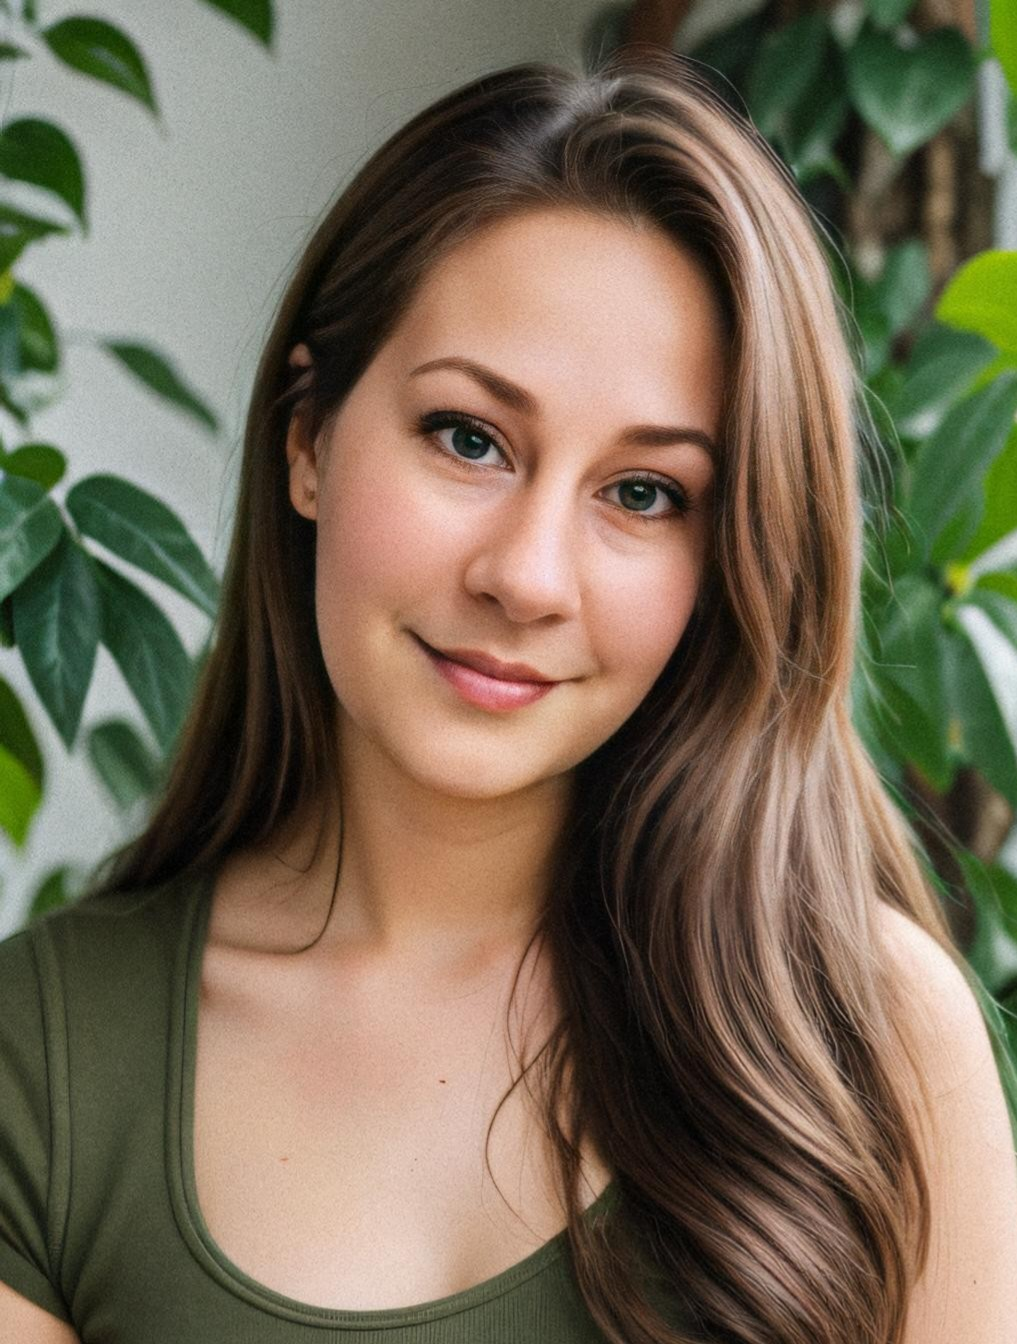
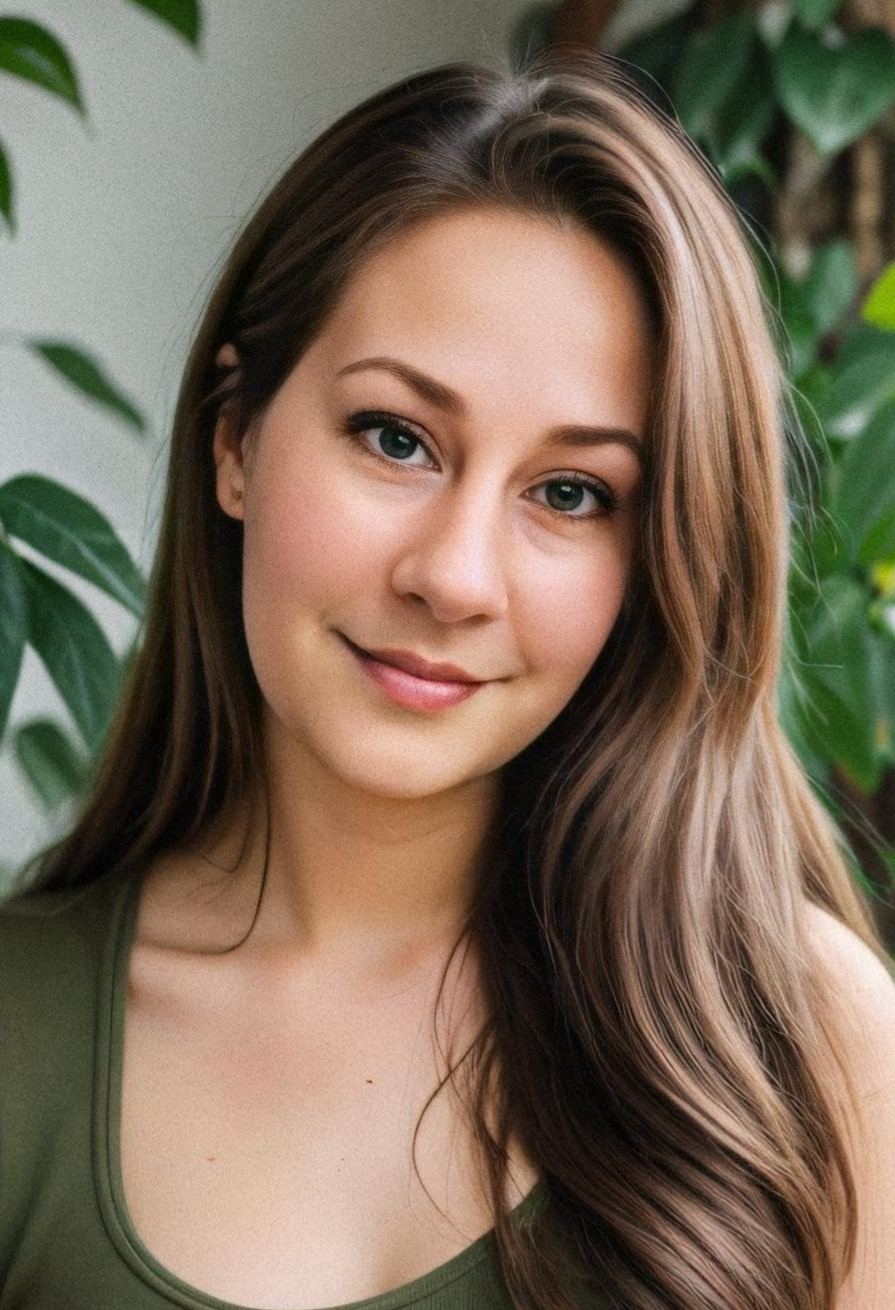
Padding

diff --git a/index.html b/index.html
@@ -46,9 +46,9 @@
          <ul id="nav" class="nav">
             <li class="current"><a class="smoothscroll" href="#home">Home</a></li>
             <li><a class="smoothscroll" href="#whatidobest">What I Do Best</a></li>
+	         <li><a class="smoothscroll" href="#skills">Professional Skills</a></li>   
             <li><a class="smoothscroll" href="#outsidetheoffice">Outside the Office</a></li>
-	         <li><a class="smoothscroll" href="#skills">Professional Skills</a></li>            
-           <li><a class="smoothscroll" href="#contact">Contact</a></li>
+            <li><a class="smoothscroll" href="#contact">Contact</a></li>
          </ul> <!-- end #nav -->
 
       </nav> <!-- end #nav-wrap -->
@@ -120,6 +120,41 @@
       </div>
 
    </section> <!-- What I do Best Section End-->
+
+      <!-- Skills Section
+      ----------------------------------------------- -->
+   <section id="skills">
+      <div class="row skill">
+
+         <div class="three columns header-col">
+            <h1><span>Skills</span></h1>
+         </div>
+
+         <div class="nine columns main-col">
+
+
+				<div class="bars">
+
+				   <ul class="skills">
+                  
+					   <li><span class="bar-expand bi"></span><em>Business Intelligence</em><p>Data Modeling, Power BI, QuickSight, Snowflake, SQL, Metrics and KPIs, Gap Analysis, ETL, API, QA, Requirements Gathering, SOPs</p></li>
+                  <li><span class="bar-expand pm"></span><em>Project Management</em><p>Jira, Confluence, Azure DevOps, SharePoint, Scrum and Kanban, Agile and Waterfall Methedologies, Risk Management, SOPs, PMBOK</p></li>
+                  <li><span class="bar-expand webdevelopment"></span><em>Full Stack Web Development</em><p>JS, CSS, HTML,Github, Node.js, Express.js, MongoDB, REST API, GraphQl, Docker, PowerShell</p></li>
+                 	<li><span class="bar-expand marketresearch"></span><em>Qualitative Market Research</em><p>Live-Market Product Trials for New Features and Products, Bug Reporting and Escalation, Customer Satisfaction Analysis and Reporting</p></li>
+                  <!--<li><span class="bar-expand sdlc"></span><em>SDLC</em></li>-->
+
+					</ul>
+
+				</div>
+            <!-- end skill-bars -->
+
+			</div> <!-- main-col end -->
+
+      </div> 
+      <!-- End skills -->
+
+   </section>
+   <!-- Skills Section End-->
 
  <!-- Outside the Office Section
    ================================================== -->
@@ -198,41 +233,6 @@
 
      
    </section> <!-- Resume Section End-->
-
-      <!-- Skills-->>
-      ----------------------------------------------- 
-   <section id="skills">
-      <div class="row skill">
-
-         <div class="three columns header-col">
-            <h1><span>Skills</span></h1>
-         </div>
-
-         <div class="nine columns main-col">
-
-
-				<div class="bars">
-
-				   <ul class="skills">
-                  
-					   <li><span class="bar-expand bi"></span><em>Business Intelligence</em><p>Data Modeling, Power BI, QuickSight, Snowflake, SQL, Metrics and KPIs, Gap Analysis, ETL, API, QA, Requirements Gathering, SOPs</p></li>
-                  <li><span class="bar-expand pm"></span><em>Project Management</em><p>Jira, Confluence, Azure DevOps, SharePoint, Scrum and Kanban, Agile and Waterfall Methedologies, Risk Management, SOPs, PMBOK</p></li>
-                  <li><span class="bar-expand webdevelopment"></span><em>Full Stack Web Development</em><p>JS, CSS, HTML,Github, Node.js, Express.js, MongoDB, REST API, GraphQl, Docker, PowerShell</p></li>
-                 	<li><span class="bar-expand marketresearch"></span><em>Qualitative Market Research</em><p>Live-Market Product Trials for New Features and Products, Bug Reporting and Escalation, Customer Satisfaction Analysis and Reporting</p></li>
-                  <!--<li><span class="bar-expand sdlc"></span><em>SDLC</em></li>-->
-
-					</ul>
-
-				</div>
-            <!-- end skill-bars -->
-
-			</div> <!-- main-col end -->
-
-      </div> 
-      <!-- End skills 
-
-   </section> -->
-   <!-- Skills Section End-->
 
 
       <!-- Contact Section

diff --git a/css/layout.css b/css/layout.css
@@ -299,7 +299,7 @@ ul#nav li.current a { color: #f78635; }
 #outsidetheoffice {
    background: #04121b;
    padding-top: 90px;
-   padding-bottom: 66px;
+   padding-bottom: 100px;
    overflow: hidden;
 }
 
